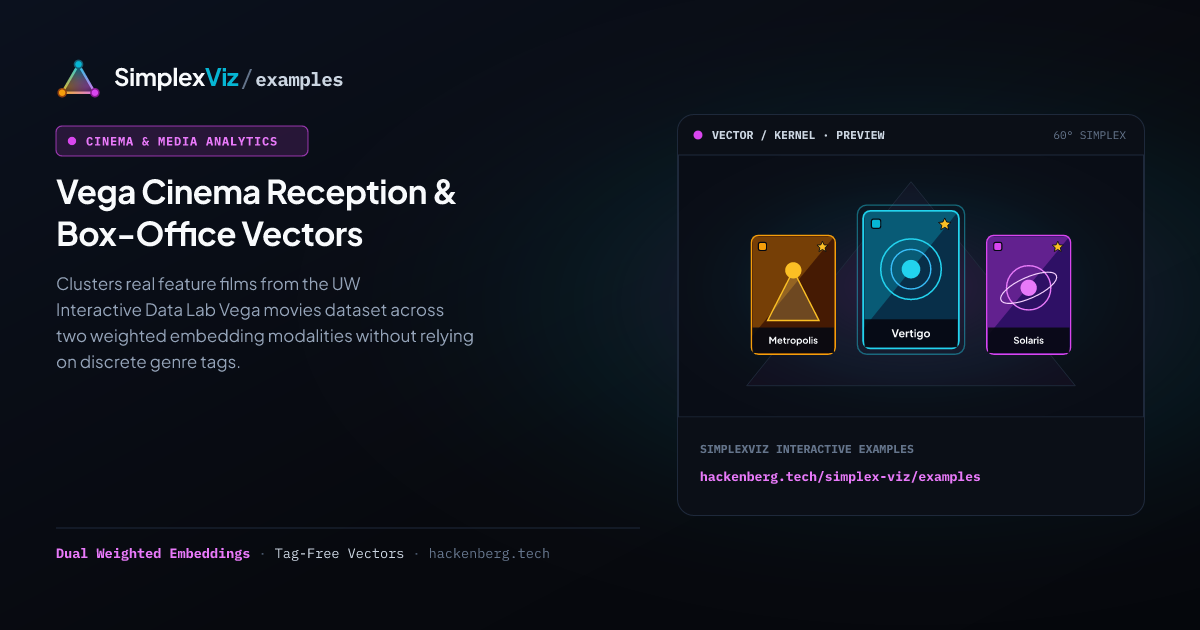
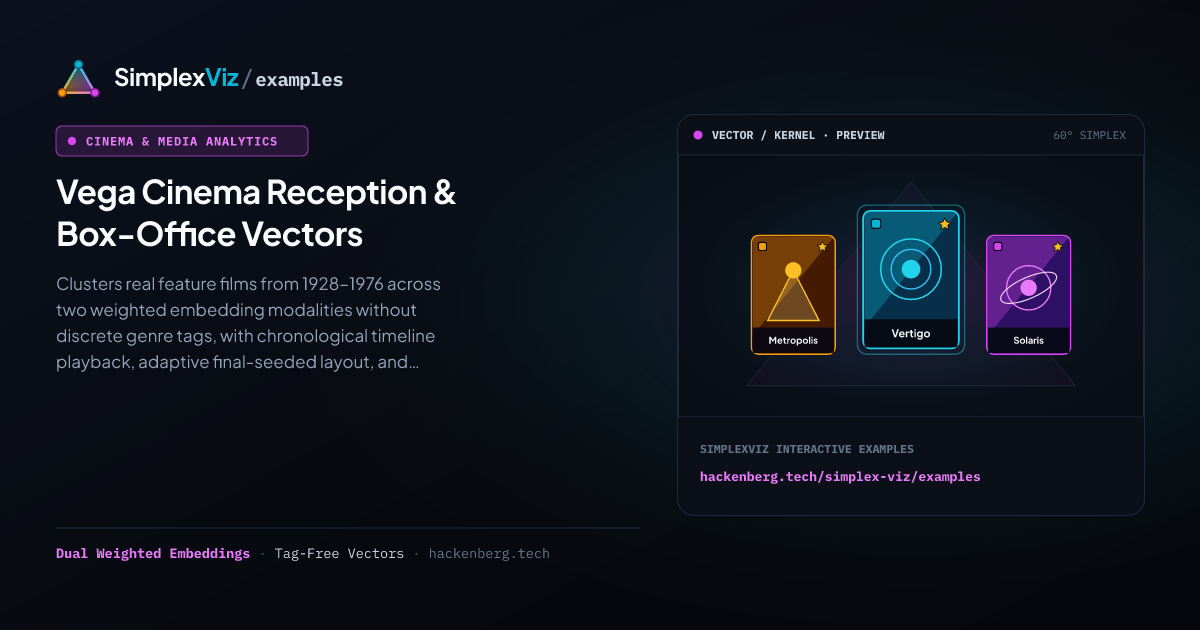
chore(release): prepare v0.8.0 across core, svg, and react
Bump @simplex-viz/core, @simplex-viz/svg, and @simplex-viz/react to 0.8.0,
add v0.8.0 changelog entries covering #3, #4, #5, #6, #7, #8, #9, and #11,
publish the SimplexViz 0.8 release note with preview artwork, and resync
brand/example PNG assets.

Changed region(s): [[0.0308, 0.4222, 0.4008, 0.6032]]

diff --git a/CHANGELOG.md b/CHANGELOG.md
@@ -2,6 +2,28 @@
 
 All notable changes to **SimplexViz** (`@simplex-viz/core`, `@simplex-viz/svg`, `@simplex-viz/react`, and the documentation/showcase site) are documented in this file following [Keep a Changelog](https://keepachangelog.com/en/1.1.0/), coordinated with per-package release notes via `@changesets/cli`.
 
+## [0.8.0] - 2026-11-19
+
+### Added / Changed
+- **`@simplex-viz/core`**:
+  - **Chronological Timeline Engine ([#8](https://github.com/ghackenberg/simplex-viz/issues/8))**: Added zero-DOM `SimplexTimelineController` and `createSimplexTimeline` for grouping timestamped or frame-keyed records into ordered cumulative frames (`play`, `pause`, `toggle`, `stepBy`, `seek`, `resetToEnd`, `setSpeed`, `setStepIntervalMs`, `setLoop`, `tick`, `subscribe`), supporting `getTimestamp`, `getFrameKey`, undated step-`0` baseline items, and `includeEmptyStart`.
+  - **Path-Independent Final-Seeded Clustering & Layout Strategies ([#5](https://github.com/ghackenberg/simplex-viz/issues/5), [#8](https://github.com/ghackenberg/simplex-viz/issues/8))**:
+    - Added `createFinalSeededClusteringStrategy(baseStrategy?, options?)` to pin canonical full-corpus clusters, vertex assignments, UIDs, and OKLab hues across chronological subsets (`0..N`) or filtered views while re-seeding cleanly on viewport/mesh resizes.
+    - Added `createFinalSeededLayoutStrategy(baseStrategy?, { scaleMode?: 'pinned' | 'adaptive', unseenItemPolicy?: 'fallback' | 'reseed' })` together with `canonicalSeedItems` / `engine.setCanonicalSeedItems(items)` to freeze canonical `(x, y)` coordinates across timeline frames—keeping exact final scales (`'pinned'`) or expanding sparse early frames symmetrically up to `1.0x` with exact SAT `0.0 px` overlap verification (`'adaptive'`).
+  - **Configurable Empty-Cluster Rendering ([#8](https://github.com/ghackenberg/simplex-viz/issues/8))**: Added `emptyClusterBehavior: 'normal' | 'dim' | 'hide'` on `SimplexGraphEngine` (`getEmptyClusterBehavior()`, `setEmptyClusterBehavior()`) to keep future `0`-item clusters dimmed or hidden until their first item arrives.
+  - **Viewport-Aware Update Reasons ([#6](https://github.com/ghackenberg/simplex-viz/issues/6))**: Threaded explicit `PipelineUpdateReason` (`'initial' | 'items' | 'viewport' | 'mesh' | 'strategy'`) and viewport dimensions into `estimateClusterCount(ctx: EstimateClusterCountContext)` and `ClusteringStrategyContext` so shrinking and regrowing the viewport cleanly restores the original cluster count.
+  - **Decoupled Tag Display Labels ([#7](https://github.com/ghackenberg/simplex-viz/issues/7))**: Added `formatTagLabel` and `resolveTagDisplayLabel` to map canonical normalized tag IDs to human-readable labels across cluster titles, breadcrumbs, semantic zoom subclusters, and tooltips without affecting clustering.
+  - **Composable Interaction Contract & Manual Relayout ([#3](https://github.com/ghackenberg/simplex-viz/issues/3), [#9](https://github.com/ghackenberg/simplex-viz/issues/9))**: Standardized target-specific click/hover handlers (`onContentClick`, `onClusterClick`, `onTriangleClick`, `onBackgroundClick`, `onLeftClick`, `onRightClick`, `onContentHover`, `onClusterHover`, `onTriangleHover`, and custom `onWheel`) so returning `void`/`false` composes with built-in drill-down/focus/tooltips/zoom and returning `true` consumes the event; added `engine.relayout()` to invalidate cached hulls and re-solve layout on demand.
+- **`@simplex-viz/svg`**:
+  - **Built-In Chronological Timeline Player HUD ([#8](https://github.com/ghackenberg/simplex-viz/issues/8))**: Added `timeline` option (`boolean | TimelinePlayerOptions`), `controller.timeline`, `getTimeline()`, `setTimelineOptions()`, and `subscribeTimeline()` with a theme-adaptive Play/Pause/Step/Scrubber overlay (`showControls`, `position: 'bottom' | 'top'`), automatic `createFinalSeededClusteringStrategy` wrapping (`autoFinalSeed: true`), optional `createFinalSeededLayoutStrategy` wrapping (`autoFinalSeedLayout: false | 'pinned' | 'adaptive'`), and `emptyClusterBehavior` (`'normal' | 'dim' | 'hide'`).
+  - **Cluster Badge Formatting & Fixed/Item-Driven N-Gon Shapes ([#4](https://github.com/ghackenberg/simplex-viz/issues/4), [#11](https://github.com/ghackenberg/simplex-viz/issues/11))**: Added `badgeOptions` (`showCode`, `maxTitleChars`, `formatTitle`, `truncateBadgeTitle`) on `BadgeClusterSvgView` and presets, plus `getShape` / `GeometricShapeSpec` / `resolveGeometricShapeSpec` supporting arbitrary regular polygons (`sides >= 3`) with exact convex SAT hulls and invariance across `1:4` drill-down levels.
+  - **Webfont Auto-Relayout & Composable Handlers ([#3](https://github.com/ghackenberg/simplex-viz/issues/3), [#9](https://github.com/ghackenberg/simplex-viz/issues/9))**: Added `relayoutOnFontLoad: true` (subscribing to `document.fonts.ready` / `loadingdone` with clean `destroy()` teardown), `controller.relayout()`, `setEmptyClusterBehavior()`, and `onWheel: 'none'` without calling `preventDefault()`.
+- **`@simplex-viz/react`**:
+  - **Timeline Props & Reactive Hook ([#8](https://github.com/ghackenberg/simplex-viz/issues/8))**: Added `timeline`, `emptyClusterBehavior`, and `onTimelineStateChange` props to `<SimplexTopicGraph />`, `handle.getTimeline()` and `handle.relayout()` on `useSimplexGraphController()`, and the reactive `useSimplexTimeline()` hook for declarative custom playback UIs.
+  - **Preset Customization & Composable Interactions ([#3](https://github.com/ghackenberg/simplex-viz/issues/3), [#4](https://github.com/ghackenberg/simplex-viz/issues/4), [#7](https://github.com/ghackenberg/simplex-viz/issues/7), [#9](https://github.com/ghackenberg/simplex-viz/issues/9), [#11](https://github.com/ghackenberg/simplex-viz/issues/11))**: Added `formatTagLabel`, `badgeOptions`, `getShape`, `relayoutOnFontLoad`, and target-specific click props (`onContentClick`, `onClusterClick`, `onTriangleClick`, `onBackgroundClick`) on `<SimplexTopicGraph />`, and re-exported all new `@simplex-viz/core` and `@simplex-viz/svg` APIs and types.
+- **Showcase, Playground & Documentation**:
+  - Enabled live chronological timeline playback (`1928–1976`) with `autoFinalSeedLayout: 'adaptive'` and `emptyClusterBehavior: 'dim'` on the Vega Cinema example, added full Timeline, Final-Seeded Layout, and Empty-Cluster controls to the interactive Playground, and updated all READMEs, docs guides, and homepage copy.
+
 ## [0.7.0] - 2026-11-18
 
 ### Fixed

diff --git a/packages/svg/CHANGELOG.md b/packages/svg/CHANGELOG.md
@@ -1,5 +1,16 @@
 # @simplex-viz/svg
 
+## 0.8.0
+
+### Minor Changes
+
+- Add opt-in chronological timeline playback (`timeline`, `controller.timeline`, `getTimeline()`, `setTimelineOptions()`, `subscribeTimeline()`) with a theme-adaptive Play/Pause/Step/Scrubber HUD, automatic `createFinalSeededClusteringStrategy` wrapping (`autoFinalSeed`), optional `createFinalSeededLayoutStrategy` wrapping (`autoFinalSeedLayout: false | 'pinned' | 'adaptive'`), and configurable `emptyClusterBehavior` (`'normal' | 'dim' | 'hide'`, `setEmptyClusterBehavior()`, #8); add `badgeOptions` (`showCode`, `maxTitleChars`, `formatTitle`, `truncateBadgeTitle`, #4), fixed and item-driven N-gon `getShape` / `resolveGeometricShapeSpec` with exact convex hulls (#11), `formatTagLabel` across badges/tooltips/breadcrumbs (#7), automatic webfont relayout (`relayoutOnFontLoad: true` + `relayout()`, #9), composable click/hover/wheel handlers (#3), and re-export all new `@simplex-viz/core` APIs.
+
+### Patch Changes
+
+- Updated dependencies
+  - @simplex-viz/core@0.8.0
+
 ## 0.7.0
 
 ### Minor Changes

diff --git a/packages/core/CHANGELOG.md b/packages/core/CHANGELOG.md
@@ -1,5 +1,11 @@
 # @simplex-viz/core
 
+## 0.8.0
+
+### Minor Changes
+
+- Add zero-DOM chronological timeline controller (`SimplexTimelineController`, `createSimplexTimeline`, #8), add `createFinalSeededClusteringStrategy` (#5) and `createFinalSeededLayoutStrategy` (`scaleMode: 'pinned' | 'adaptive'`, `unseenItemPolicy: 'fallback' | 'reseed'`, `canonicalSeedItems`, #8) for path-independent chronological replay, add configurable `emptyClusterBehavior` (`'normal' | 'dim' | 'hide'`, `getEmptyClusterBehavior()`, `setEmptyClusterBehavior()`, #8), thread explicit `PipelineUpdateReason` and viewport dimensions into `estimateClusterCount` and `ClusteringStrategyContext` (#6), add `formatTagLabel` / `resolveTagDisplayLabel` to decouple canonical tag IDs from display labels (#7), standardize composable target-specific click/hover/wheel return-`true` consumption (#3), and add `engine.relayout()` (#9).
+
 ## 0.7.0
 
 ### Minor Changes

diff --git a/packages/react/CHANGELOG.md b/packages/react/CHANGELOG.md
@@ -1,5 +1,18 @@
 # @simplex-viz/react
 
+## 0.8.0
+
+### Minor Changes
+
+- Add `timeline`, `emptyClusterBehavior`, and `onTimelineStateChange` props to `<SimplexTopicGraph />` alongside the reactive `useSimplexTimeline()` hook and `handle.getTimeline()` / `handle.relayout()` on `useSimplexGraphController()` (#8, #9); add `formatTagLabel` (#7), `badgeOptions` (#4), `getShape` (#11), `relayoutOnFontLoad` (#9), and composable target-specific click props (`onContentClick`, `onClusterClick`, `onTriangleClick`, `onBackgroundClick`, #3); re-export all new `@simplex-viz/svg` and `@simplex-viz/core` strategies, helpers, and types.
+
+### Patch Changes
+
+- Updated dependencies
+- Updated dependencies
+  - @simplex-viz/core@0.8.0
+  - @simplex-viz/svg@0.8.0
+
 ## 0.7.0
 
 ### Minor Changes
